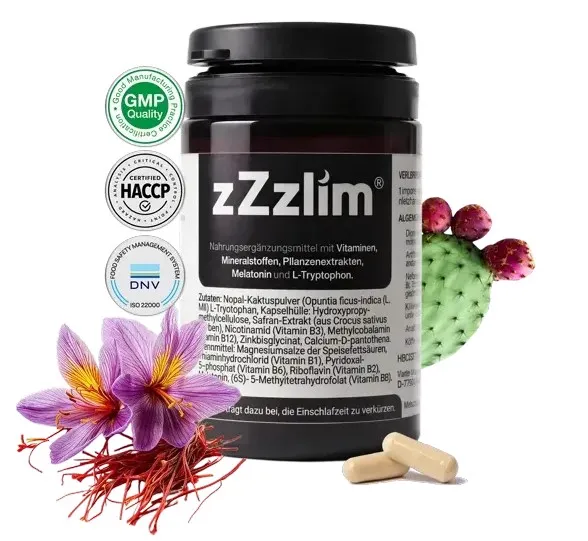
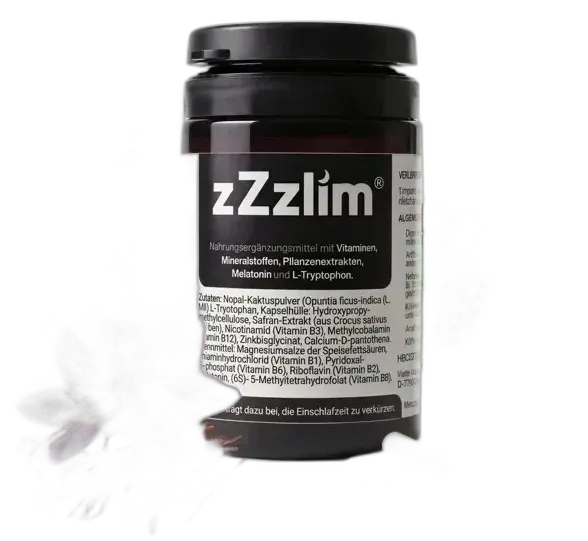
Fix centering, pillar cards, video playback, story cards, product bg removal
- Sections (Produkt, Wirkung) vertically centered with min-height:100vh
- Pillar cards: fixed height 28rem, reduced icon-text gap, fixed desc height
- Video: removed play button (thumbnail has one), simplified click-to-play JS
- Video text shortened, fullscreen on mobile with iOS support
- Story cards on desktop: seen cards stay visible (stacked), not hidden
- Story images: full-width in card (removed max-width:400px limit)
- Product image: background removed with AI, converted to WebP
- Closing text adjusted for 2-line layout on desktop

diff --git a/index.html b/index.html
@@ -257,7 +257,7 @@
         @media (min-width: 769px) {
             .story-card { position: absolute; top: 0; left: 0; right: 0; }
             .story-card.active { position: relative; }
-            .story-card.seen { position: absolute; }
+            .story-card.seen { position: relative; opacity: 1; transform: translateY(0); pointer-events: auto; margin-bottom: 1.5rem; }
         }
         @media (max-width: 768px) {
             .story-card { position: absolute; top: 0; left: 0; right: 0; }
@@ -333,12 +333,13 @@
         /* Real image frame — hero-style rounded with shadow */
         .story-image-frame {
             width: 100%;
-            max-width: 400px;
+            max-width: 100%;
             margin: 0 auto;
             border-radius: 20px;
             overflow: hidden;
             box-shadow: 0 12px 40px rgba(0,0,0,0.10), 0 2px 8px rgba(0,0,0,0.06);
             background: #FDF2F0;
+            aspect-ratio: 4/3;
         }
         .story-image-frame img {
             width: 100%;
@@ -442,12 +443,14 @@
         }
         .story-closing h2 {
             font-family: 'Fraunces', serif;
-            font-size: clamp(2rem, 5vw, 3.25rem);
+            font-size: clamp(2rem, 4vw, 2.75rem);
             font-weight: 700;
-            line-height: 1.1;
+            line-height: 1.2;
             letter-spacing: -0.02em;
             color: #0f172a;
             display: inline;
+            max-width: 700px;
+            margin: 0 auto;
         }
         .story-closing .underline-anim {
             padding-bottom: 0;
@@ -510,8 +513,7 @@
             border-radius: 24px;
             padding: 2rem 2rem;
             text-align: center;
-            height: 100%;
-            min-height: 26rem;
+            height: 28rem;
             box-shadow: 0 4px 24px rgba(0,0,0,0.04);
             display: flex;
             flex-direction: column;
@@ -537,7 +539,7 @@
             display: flex;
             justify-content: center;
             gap: 1.5rem;
-            margin-bottom: 1.25rem;
+            margin-bottom: 0.75rem;
         }
         .pillar-ingredient {
             display: flex;
@@ -573,7 +575,8 @@
             color: #64748b;
             line-height: 1.5;
             max-width: 32rem;
-            margin: auto auto 0;
+            margin: 0 auto 0;
+            min-height: 7rem;
         }
         /* Overlay (glassmorphism — covers cards) */
         .pillar-overlay {
@@ -1177,24 +1180,20 @@
         <div style="max-width:1100px; margin:0 auto; width:100%; text-align:center;">
             <span style="display:inline-block; background:rgba(134,19,48,0.08); color:#861330; padding:0.25rem 1rem; border-radius:999px; font-size:clamp(0.7rem,1.2vw,0.85rem); letter-spacing:0.08em; text-transform:uppercase; margin-bottom:1rem;">So funktioniert's</span>
             <h2 style="font-family:'Fraunces',serif; font-size:clamp(1.75rem,4vw,2.75rem); font-weight:700; line-height:1.15; color:#0f172a; letter-spacing:-0.02em; margin-bottom:0.75rem;">Kleine Veränderungen am Abend,<br><span style="color:#861330;">die wirklich helfen.</span></h2>
-            <p style="font-family:'Fraunces',serif; font-size:clamp(0.875rem,1.5vw,1rem); color:#475469; margin-top:0.5rem; max-width:38rem; margin-left:auto; margin-right:auto; line-height:1.6; margin-bottom:2rem;">So kann eine bewusste Abendroutine deinen Schlaf verbessern.</p>
+            <p style="font-family:'Fraunces',serif; font-size:clamp(0.875rem,1.5vw,1rem); color:#475569; margin-top:0.5rem; max-width:38rem; margin-left:auto; margin-right:auto; line-height:1.6; margin-bottom:2rem;">Schau dir in diesem kurzen Video an, wie es funktioniert.</p>
             <div class="video2-player" style="position:relative; border-radius:1rem; overflow:hidden; aspect-ratio:9/16; background:#000; cursor:pointer; max-width:400px; margin:0 auto; max-height:65vh;">
                 <video class="video2-vid" playsinline preload="metadata" poster="media/Thumbnailvideo.jpeg" style="width:100%; height:100%; object-fit:cover; display:block;">
                     <source src="media/VideoLanding.mp4" type="video/mp4">
                 </video>
-                <!-- Play button overlay (shows thumbnail + play) -->
-                <div class="video2-overlay" style="position:absolute; inset:0; display:-webkit-flex; display:flex; -webkit-align-items:center; align-items:center; -webkit-justify-content:center; justify-content:center; background:rgba(0,0,0,0.15); z-index:2; transition:opacity 0.3s ease;">
-                    <button class="video2-play-btn" aria-label="Video abspielen" style="width:72px; height:72px; border-radius:50%; background:#861330; color:#fff; border:none; cursor:pointer; display:-webkit-flex; display:flex; -webkit-align-items:center; align-items:center; -webkit-justify-content:center; justify-content:center; box-shadow:0 4px 24px rgba(134,19,48,0.5); transition:transform 0.3s, box-shadow 0.3s;">
-                        <svg width="28" height="28" viewBox="0 0 24 24" fill="currentColor" stroke="none"><polygon points="6,3 20,12 6,21"/></svg>
-                    </button>
-                </div>
+                <!-- Clickable overlay (no button, thumbnail has play icon) -->
+                <div class="video2-overlay" style="position:absolute; inset:0; z-index:2; cursor:pointer;"></div>
             </div>
         </div>
     </section>
 
 
     <!-- === SECTION 6: Produkt-Info (Inhaltsstoffe + Qualität) === -->
-    <section id="produkt-info" style="padding:5rem 50px; background:#ffffff; font-family:'Fraunces',serif; overflow:hidden; min-height:85vh; display:-webkit-flex; display:flex; -webkit-align-items:center; align-items:center; -webkit-justify-content:center; justify-content:center;">
+    <section id="produkt-info" style="padding:5rem 50px; background:#ffffff; font-family:'Fraunces',serif; overflow:hidden; min-height:100vh; display:-webkit-flex; display:flex; -webkit-align-items:center; align-items:center; -webkit-justify-content:center; justify-content:center;">
         <div style="max-width:1300px; margin:0 auto; width:100%;">
             <div style="text-align:center; margin-bottom:0.75rem;">
                 <h2 style="font-family:'Fraunces',serif; font-size:clamp(1.75rem,4vw,2.75rem); font-weight:700; line-height:1.1; letter-spacing:-0.02em; color:#0f172a;" data-i18n="prod.title">Unterstützung für <span style="color:#861330;">deine Abendroutine.</span></h2>
@@ -1252,7 +1251,7 @@
 
 
     <!-- === SECTION 7: Die 3 Säulen — Scroll Carousel === -->
-    <section id="wirkung" data-substeps="5" style="background:#ffffff; padding:5rem 24px; font-family:'Fraunces',serif; min-height:85vh; display:-webkit-flex; display:flex; -webkit-align-items:center; align-items:center; -webkit-justify-content:center; justify-content:center; position:relative;">
+    <section id="wirkung" data-substeps="5" style="background:#ffffff; padding:5rem 24px; font-family:'Fraunces',serif; min-height:100vh; display:-webkit-flex; display:flex; -webkit-align-items:center; align-items:center; -webkit-justify-content:center; justify-content:center; position:relative;">
         <div style="max-width:1200px; margin:0 auto; position:relative;">
             <!-- Header -->
             <div style="text-align:center; margin-bottom:1.5rem;" class="wirkung-header">

diff --git a/erklaer.js b/erklaer.js
@@ -819,42 +819,32 @@ function initVideoLazyLoad() {
         });
     });
 
-    // Video2: thumbnail overlay + play/pause + pause on scroll
+    // Video2: click thumbnail to play, fullscreen on mobile
     const v2vid = document.querySelector('.video2-vid');
     const v2overlay = document.querySelector('.video2-overlay');
-    const v2playBtn = document.querySelector('.video2-play-btn');
     const v2section = document.getElementById('video2');
 
-    if (v2vid && v2overlay && v2playBtn) {
-        // Click play button → hide overlay, show controls, play (fullscreen on mobile)
-        v2playBtn.addEventListener('click', (e) => {
-            e.stopPropagation();
-            v2overlay.style.opacity = '0';
-            v2overlay.style.pointerEvents = 'none';
+    if (v2vid && v2overlay) {
+        // Click overlay → hide it, show controls, play
+        v2overlay.addEventListener('click', () => {
+            v2overlay.style.display = 'none';
             v2vid.controls = true;
             v2vid.muted = false;
-            v2vid.play();
-            // Fullscreen on mobile
+            v2vid.play().catch(() => {});
+            // Fullscreen on mobile (iOS needs webkitEnterFullscreen)
             if (window.innerWidth <= 768) {
-                if (v2vid.requestFullscreen) v2vid.requestFullscreen();
-                else if (v2vid.webkitEnterFullscreen) v2vid.webkitEnterFullscreen();
+                if (v2vid.webkitEnterFullscreen) v2vid.webkitEnterFullscreen();
+                else if (v2vid.requestFullscreen) v2vid.requestFullscreen();
                 else if (v2vid.webkitRequestFullscreen) v2vid.webkitRequestFullscreen();
             }
         });
 
-        // Click overlay area → same as play
-        v2overlay.addEventListener('click', () => {
-            v2playBtn.click();
-        });
-
         // When paused or ended → show overlay again
         v2vid.addEventListener('pause', () => {
-            v2overlay.style.opacity = '1';
-            v2overlay.style.pointerEvents = 'auto';
+            v2overlay.style.display = 'block';
         });
         v2vid.addEventListener('ended', () => {
-            v2overlay.style.opacity = '1';
-            v2overlay.style.pointerEvents = 'auto';
+            v2overlay.style.display = 'block';
             v2vid.controls = false;
         });
 
